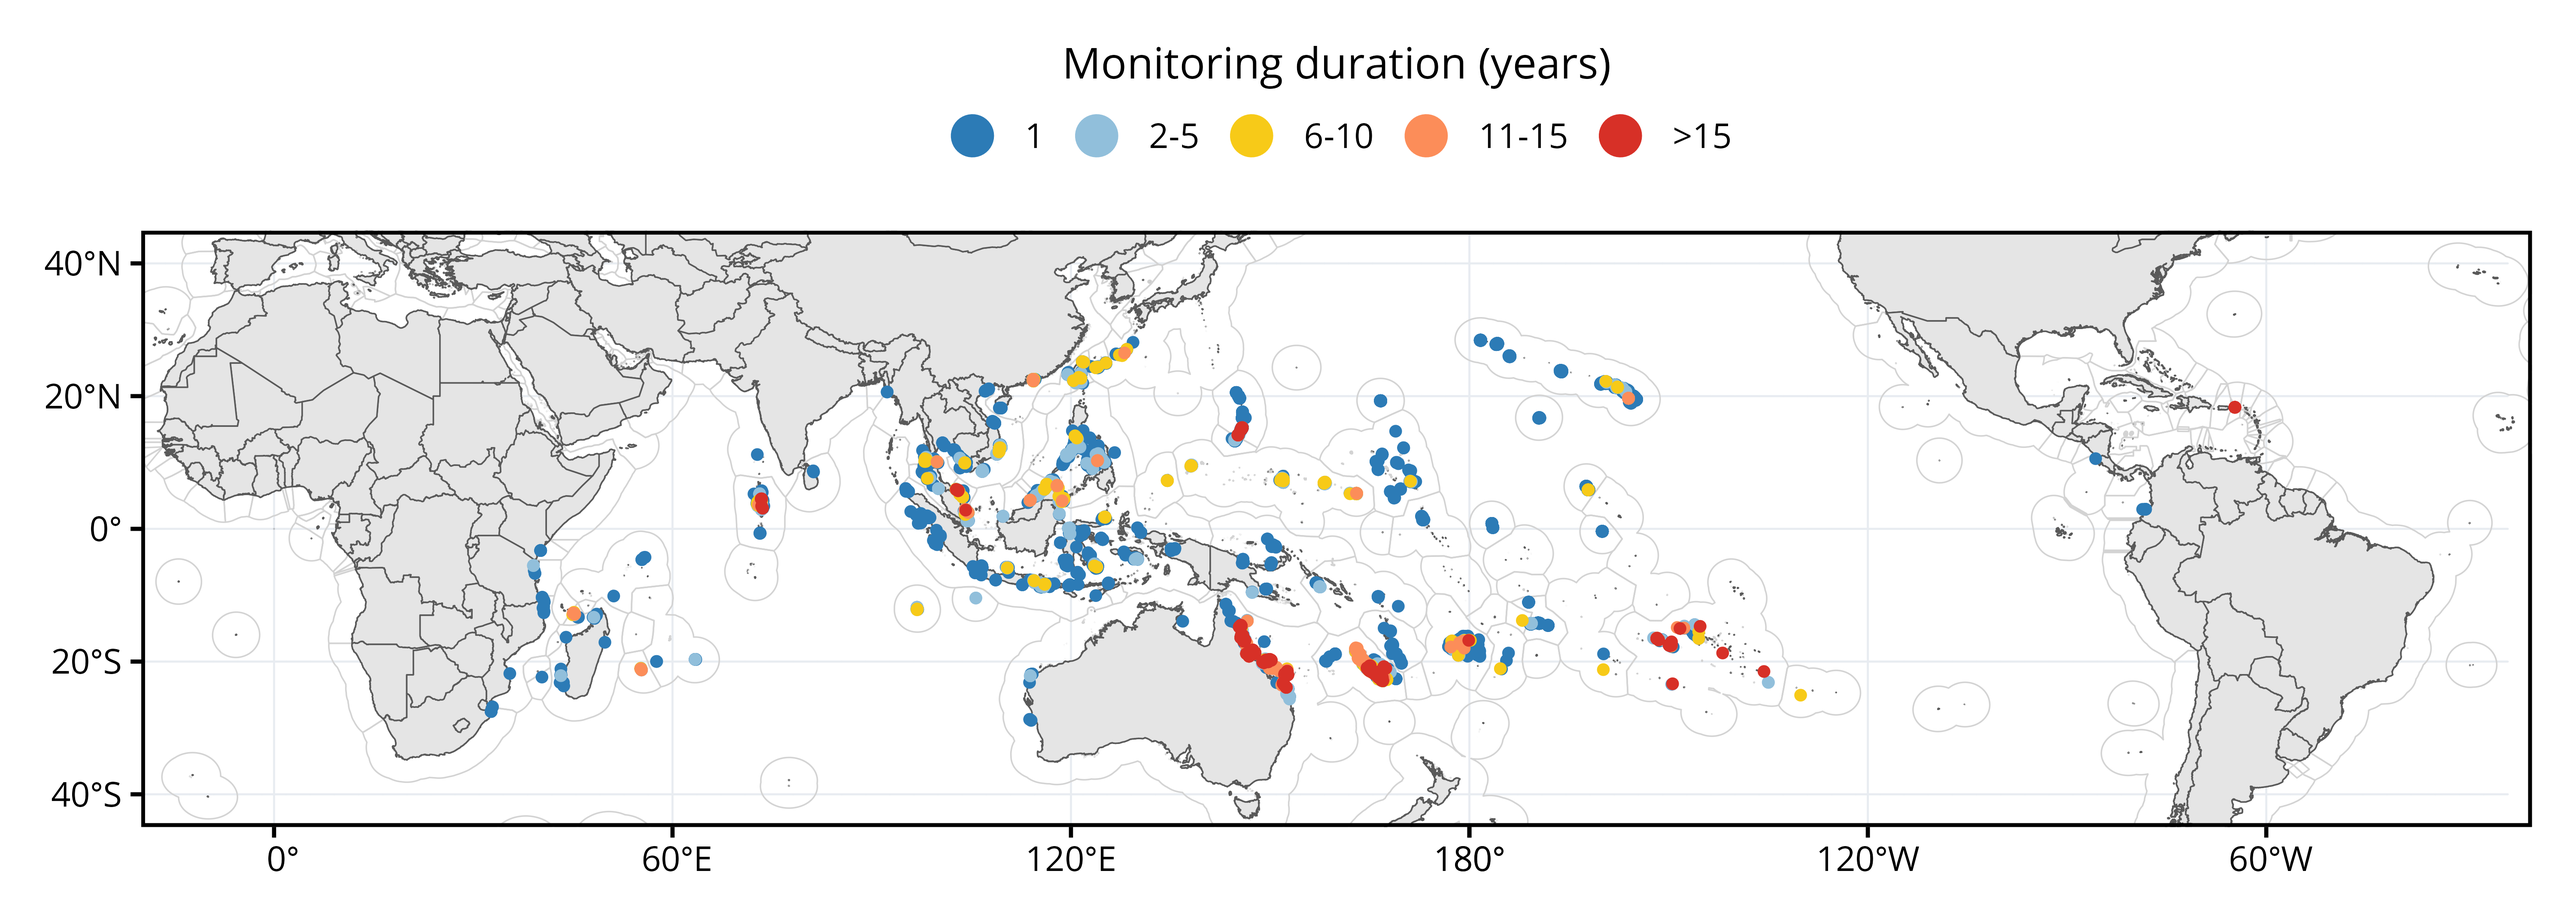
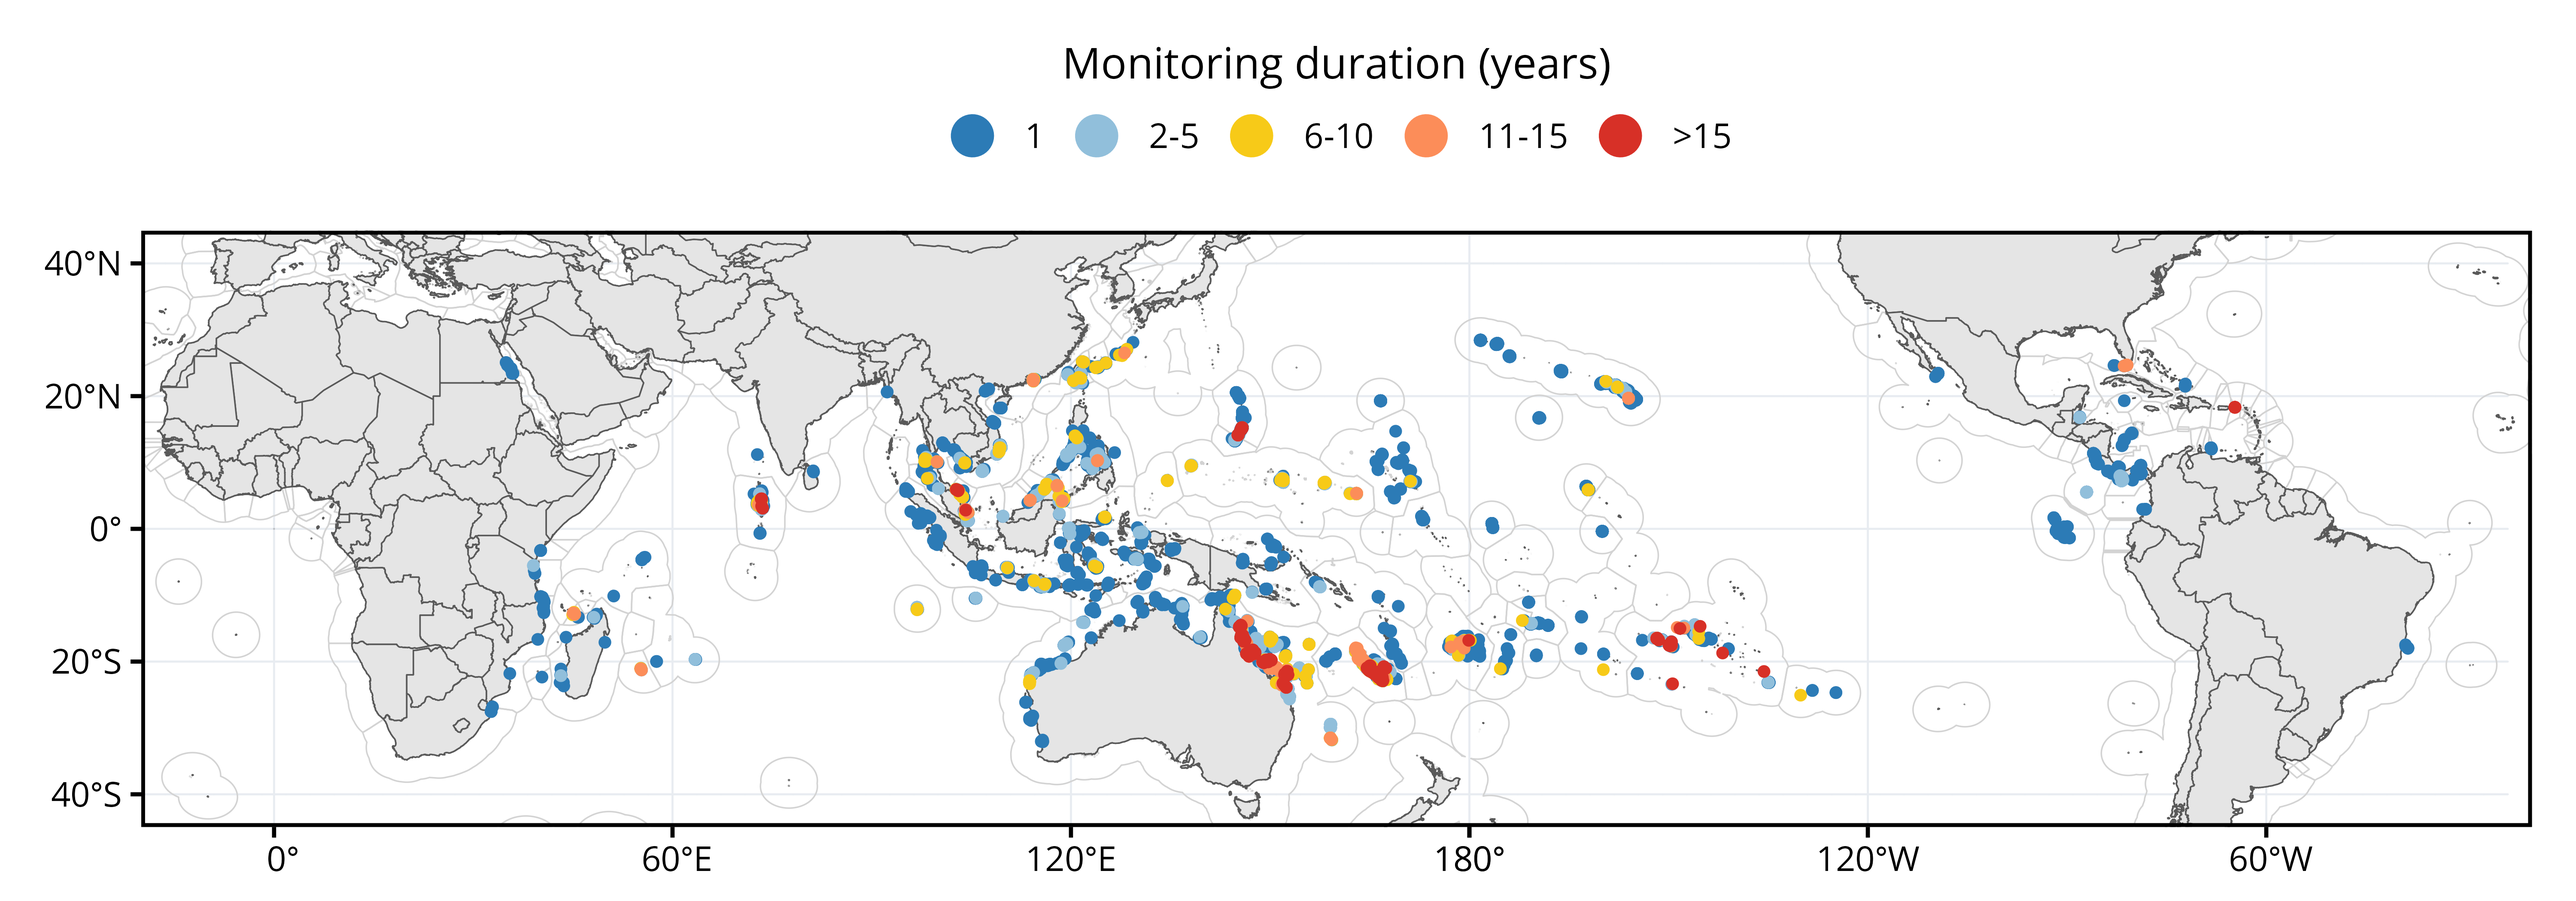
standardize dataset 0038

diff --git a/README.md b/README.md
@@ -249,7 +249,7 @@ considered. The column names (except *aggregator*) correspond to
 |   0025    | [2011_Southern Bua](https://dashboard.datamermaid.org/?project=2011_Southern%20Bua)                                                                     | open (summary) | Me.  | 08/09/2021 |     JW     |
 |   0026    | [2012_Western Bua](https://dashboard.datamermaid.org/?project=2012_Western%20Bua)                                                                       | open (summary) | Me.  | 10/09/2021 |     JW     |
 |   0027    | [2009-2011_Kubulau](https://dashboard.datamermaid.org/?project=2009-2011_Kubulau)                                                                       | open (summary) | Me.  | 08/09/2021 |     JW     |
-|   0028    | [C<sub>2</sub>O Pacific](https://c2o.net.au/our-work-in-the-pacific/)                                                                                   | open (summary) | Rc.  |            |     JW     |
+|   0028    | [C<sub>2</sub>O Pacific](https://c2o.net.au/our-work-in-the-pacific/)                                                                                   | upon request   | Rc.  |            |     JW     |
 |   0029    | [2022_BAF and WISH](https://dashboard.datamermaid.org/?project=2022_BAF%20and%20WISH%20coral%20reef%20surveys%20in%20Tailevu_Ovalau)                    | open (summary) | Me.  | 06/06/2022 |     JW     |
 |   0030    | [PNG BAF 2019](https://dashboard.datamermaid.org/?project=PNG%20BAF%202019)                                                                             | open (summary) | Me.  | 31/10/2019 |     JW     |
 |   0031    | [2017_Northern Lau](https://dashboard.datamermaid.org/?project=2017_Northern%20Lau)                                                                     | open (summary) | Me.  | 08/02/2021 |     JW     |
@@ -259,12 +259,13 @@ considered. The column names (except *aggregator*) correspond to
 |   0035    | [Lau Seascape Surveys](https://dashboard.datamermaid.org/?project=Lau%20Seascape%20Surveys%20March%202022)                                              | open (summary) | Me.  | 18/04/2022 |     JW     |
 |   0036    | SI_Munda                                                                                                                                                | open (summary) | Rc.  |            |     JW     |
 |   0037    | [Khen et al, 2022](https://link.springer.com/article/10.1007/s00338-022-02271-6)                                                                        | upon request   | Sh.  |            |     JW     |
+|   0038    | [Reef Life Survey](https://doi.org/10.1016/j.biocon.2020.108855)                                                                                        | upon request   | Sh.  | 13/09/2023 |     JW     |
 
 ## 6. Description of the synthetic dataset
 
-On the 2023-08-21, the `gcrmndb_benthos` synthetic dataset contains a
-total of **822,756 observations** (*i.e* rows) representing **9,439
-sites** and **21,883 surveys**.
+On the 2023-09-15, the `gcrmndb_benthos` synthetic dataset contains a
+total of **858,670 observations** (*i.e* rows) representing **10,820
+sites** and **23,810 surveys**.
 
 ![](figs/map_sites.png)
 
@@ -283,13 +284,15 @@ GCRMN regions.
 
 | GCRMN region | Sites (n) | Surveys (n) | Datasets (n) | First year | Last year |
 |-------------:|----------:|------------:|-------------:|:----------:|:---------:|
-|    Australia |       546 |        4175 |            2 |    1995    |   2019    |
-|    Caribbean |         8 |         236 |            2 |    1987    |   2021    |
-|          EAS |      2378 |        5232 |            2 |    1997    |   2022    |
-|          ETP |         5 |           5 |            1 |    1998    |   2004    |
-|      Pacific |      6206 |       11677 |           33 |    1987    |   2023    |
-|   South Asia |       151 |         217 |            1 |    1997    |   2022    |
-|          WIO |       145 |         341 |            1 |    1997    |   2019    |
+|    Australia |      1237 |        5314 |            3 |    1995    |   2023    |
+|       Brazil |        10 |          11 |            1 |    2012    |   2012    |
+|    Caribbean |        97 |         347 |            3 |    1987    |   2022    |
+|          EAS |      2510 |        5386 |            3 |    1997    |   2022    |
+|          ETP |       239 |         283 |            2 |    1998    |   2018    |
+|       PERSGA |        12 |          12 |            1 |    2011    |   2011    |
+|      Pacific |      6385 |       11865 |           34 |    1987    |   2023    |
+|   South Asia |       163 |         229 |            2 |    1997    |   2022    |
+|          WIO |       167 |         363 |            2 |    1997    |   2019    |
 
 **Table 7.** Summary of the content of the `gcrmndb_benthos` synthetic
 dataset per country and territory. The total number of datasets
@@ -299,57 +302,70 @@ territories.
 
 |               Country | Territory                    | Sites (n) | Surveys (n) | Datasets (n) | First year | Last year |
 |----------------------:|:-----------------------------|----------:|------------:|-------------:|:----------:|:---------:|
-|             Australia | Australia                    |       524 |        4113 |            2 |    1995    |   2019    |
-|             Australia | Christmas Island             |         2 |          13 |            1 |    2003    |   2007    |
+|             Australia | Australia                    |      1208 |        5248 |            3 |    1995    |   2023    |
+|             Australia | Christmas Island             |        16 |          30 |            2 |    2003    |   2010    |
 |             Australia | Cocos Islands                |        20 |          49 |            1 |    1997    |   2008    |
 |            Bangladesh | Bangladesh                   |         2 |           2 |            1 |    2005    |   2006    |
+|                Belize | Belize                       |        12 |          22 |            1 |    2015    |   2018    |
+|                Brazil | Brazil                       |        10 |          11 |            1 |    2012    |   2012    |
 |                Brunei | Brunei                       |        38 |          45 |            1 |    1997    |   2016    |
-|              Cambodia | Cambodia                     |        91 |          98 |            1 |    1998    |   2013    |
+|              Cambodia | Cambodia                     |        96 |         103 |            2 |    1998    |   2013    |
 |                 China | China                        |       100 |         366 |            1 |    1997    |   2012    |
-|              Colombia | Colombia                     |         4 |           4 |            1 |    1998    |   1999    |
-|            Costa Rica | Costa Rica                   |         1 |           1 |            1 |    2004    |   2004    |
-|            East Timor | East Timor                   |        10 |          12 |            1 |    2004    |   2017    |
+|              Colombia | Colombia                     |        20 |          20 |            2 |    1998    |   2011    |
+|              Colombia | Serrana Bank                 |         6 |           6 |            1 |    2016    |   2016    |
+|            Costa Rica | Costa Rica                   |        51 |          64 |            2 |    2004    |   2011    |
+|            East Timor | East Timor                   |        11 |          13 |            2 |    2004    |   2017    |
+|               Ecuador | Galapagos                    |        62 |          62 |            1 |    2008    |   2012    |
+|                 Egypt | Egypt                        |        12 |          12 |            1 |    2011    |   2011    |
 |                  Fiji | Fiji                         |       584 |         921 |           11 |    1997    |   2022    |
 |                France | Europa Island                |         1 |           1 |            1 |    2002    |   2002    |
-|                France | French Polynesia             |       150 |        2000 |            6 |    1987    |   2022    |
+|                France | French Polynesia             |       223 |        2075 |            7 |    1987    |   2022    |
 |                France | Mayotte                      |        20 |          87 |            1 |    2003    |   2017    |
 |                France | New Caledonia                |       721 |        3056 |            6 |    1997    |   2023    |
 |                France | Réunion                      |        32 |         133 |            1 |    2003    |   2016    |
 |                 India | India                        |         1 |           1 |            1 |    1998    |   1998    |
-|             Indonesia | Indonesia                    |       547 |         907 |            1 |    1997    |   2022    |
-|                 Japan | Japan                        |        44 |         102 |            1 |    1997    |   2015    |
+|             Indonesia | Indonesia                    |       665 |        1047 |            2 |    1997    |   2022    |
+|                 Japan | Japan                        |        52 |         110 |            2 |    1997    |   2015    |
 |                 Kenya | Kenya                        |         6 |           6 |            1 |    2003    |   2004    |
 |              Kiribati | Gilbert Islands              |        18 |          18 |            2 |    2011    |   2018    |
 |            Madagascar | Madagascar                   |        42 |          54 |            1 |    2001    |   2019    |
 |              Malaysia | Malaysia                     |       621 |        2174 |            2 |    1997    |   2021    |
-|              Maldives | Maldives                     |       145 |         211 |            1 |    1997    |   2022    |
-|      Marshall Islands | Marshall Islands             |        71 |          85 |            2 |    2002    |   2020    |
+|              Maldives | Maldives                     |       157 |         223 |            2 |    1997    |   2022    |
+|      Marshall Islands | Marshall Islands             |        84 |          98 |            3 |    2002    |   2020    |
+|                Mexico | Mexico                       |         9 |          10 |            1 |    2018    |   2018    |
 |            Micronesia | Micronesia                   |       168 |         385 |            2 |    2000    |   2020    |
-|            Mozambique | Mozambique                   |        13 |          14 |            1 |    1997    |   2006    |
+|            Mozambique | Mozambique                   |        14 |          15 |            2 |    1997    |   2012    |
 |               Myanmar | Myanmar                      |        22 |          29 |            1 |    2001    |   2013    |
-|           New Zealand | Cook Islands                 |         2 |           7 |            2 |    2005    |   2019    |
+|           Netherlands | Bonaire                      |        14 |          14 |            1 |    2012    |   2012    |
+|           New Zealand | Cook Islands                 |        14 |          19 |            3 |    2005    |   2019    |
+|           New Zealand | Niue                         |         7 |           7 |            1 |    2011    |   2011    |
+|             Nicaragua | Nicaragua                    |        23 |          23 |            1 |    2011    |   2015    |
 |                 Palau | Palau                        |         6 |          16 |            1 |    1997    |   2006    |
-|      Papua New Guinea | Papua New Guinea             |        74 |          90 |            2 |    1998    |   2019    |
+|                Panama | Panama                       |       109 |         140 |            1 |    2007    |   2015    |
+|      Papua New Guinea | Papua New Guinea             |        82 |          98 |            3 |    1998    |   2019    |
 |           Philippines | Philippines                  |       472 |         703 |            1 |    1997    |   2020    |
 | Republic of Mauritius | Republic of Mauritius        |        10 |          12 |            1 |    1999    |   2003    |
-|                 Samoa | Samoa                        |         1 |           3 |            1 |    2013    |   2019    |
-|            Seychelles | Seychelles                   |         7 |           7 |            1 |    1997    |   2001    |
-|       Solomon Islands | Solomon Islands              |        73 |         171 |            3 |    2005    |   2021    |
+|                 Samoa | Samoa                        |         2 |           4 |            2 |    2012    |   2019    |
+|            Seychelles | Seychelles                   |        19 |          19 |            2 |    1997    |   2012    |
+|       Solomon Islands | Solomon Islands              |        75 |         173 |            4 |    2005    |   2021    |
 |          South Africa | South Africa                 |         5 |           6 |            1 |    2001    |   2005    |
 |             Sri Lanka | Sri Lanka                    |         3 |           3 |            1 |    2003    |   2003    |
 |                Taiwan | Taiwan                       |       103 |         195 |            1 |    1997    |   2020    |
-|              Tanzania | Tanzania                     |         9 |          21 |            1 |    1997    |   2008    |
+|              Tanzania | Tanzania                     |        18 |          30 |            2 |    1997    |   2012    |
 |              Thailand | Thailand                     |       148 |         245 |            1 |    1998    |   2022    |
-|                 Tonga | Tonga                        |         4 |           9 |            2 |    2002    |   2019    |
-|        United Kingdom | Pitcairn                     |         1 |           5 |            1 |    2009    |   2018    |
-|         United States | American Samoa               |       826 |         886 |            3 |    1997    |   2019    |
+|                 Tonga | Tonga                        |        29 |          34 |            3 |    2002    |   2019    |
+|        United Kingdom | Cayman Islands               |         1 |           1 |            1 |    2011    |   2011    |
+|        United Kingdom | Pitcairn                     |         6 |          11 |            2 |    2009    |   2018    |
+|        United Kingdom | Turks and Caicos Islands     |         4 |           4 |            1 |    2015    |   2015    |
+|         United States | American Samoa               |       843 |         903 |            4 |    1997    |   2019    |
 |         United States | Guam                         |       301 |         353 |            4 |    1997    |   2021    |
-|         United States | Hawaii                       |      1725 |        1915 |            3 |    1997    |   2021    |
+|         United States | Hawaii                       |      1734 |        1924 |            4 |    1997    |   2021    |
 |         United States | Howland and Baker islands    |       150 |         150 |            1 |    2015    |   2017    |
 |         United States | Jarvis Island                |       222 |         222 |            1 |    2015    |   2017    |
 |         United States | Johnston Atoll               |        46 |          46 |            1 |    2015    |   2015    |
 |         United States | Northern Mariana Islands     |       679 |         840 |            3 |    1999    |   2020    |
 |         United States | Palmyra Atoll                |       194 |         294 |            2 |    2009    |   2019    |
+|         United States | United States                |        17 |          28 |            1 |    2010    |   2022    |
 |         United States | United States Virgin Islands |         8 |         236 |            2 |    1987    |   2021    |
 |         United States | Wake Island                  |       146 |         146 |            1 |    2014    |   2017    |
 |               Vanuatu | Vanuatu                      |        44 |          59 |            2 |    2004    |   2019    |
@@ -427,31 +443,31 @@ The following organizations have funded the realization of the
     [1] stats     graphics  grDevices utils     datasets  methods   base     
 
     other attached packages:
-     [1] mermaidr_0.6.4    kableExtra_1.3.4  plotly_4.10.2     rmarkdown_2.23   
-     [5] taxize_0.9.100    leaflet_2.1.2     DT_0.28           formattable_0.2.1
+     [1] mermaidr_0.6.4    kableExtra_1.3.4  plotly_4.10.2     rmarkdown_2.24   
+     [5] taxize_0.9.100    leaflet_2.2.0     DT_0.29           formattable_0.2.1
      [9] knitr_1.43        sf_1.0-14         lubridate_1.9.2   forcats_1.0.0    
-    [13] stringr_1.5.0     dplyr_1.1.2       purrr_1.0.1       readr_2.1.4      
-    [17] tidyr_1.3.0       tibble_3.2.1      ggplot2_3.4.2     tidyverse_2.0.0  
+    [13] stringr_1.5.0     dplyr_1.1.3       purrr_1.0.2       readr_2.1.4      
+    [17] tidyr_1.3.0       tibble_3.2.1      ggplot2_3.4.3     tidyverse_2.0.0  
     [21] extrafont_0.19   
 
     loaded via a namespace (and not attached):
      [1] tidyselect_1.2.0   viridisLite_0.4.2  farver_2.1.1       fastmap_1.1.1     
-     [5] lazyeval_0.2.2     promises_1.2.0.1   digest_0.6.33      timechange_0.2.0  
+     [5] lazyeval_0.2.2     promises_1.2.1     digest_0.6.33      timechange_0.2.0  
      [9] lifecycle_1.0.3    magrittr_2.0.3     compiler_4.3.1     rlang_1.1.1       
     [13] tools_4.3.1        utf8_1.2.3         yaml_2.3.7         data.table_1.14.8 
-    [17] conditionz_0.1.0   htmlwidgets_1.6.2  classInt_0.4-9     curl_5.0.1        
-    [21] xml2_1.3.5         KernSmooth_2.23-21 httpcode_0.3.0     withr_2.5.0       
+    [17] conditionz_0.1.0   htmlwidgets_1.6.2  classInt_0.4-10    curl_5.0.2        
+    [21] xml2_1.3.5         KernSmooth_2.23-22 httpcode_0.3.0     withr_2.5.0       
     [25] grid_4.3.1         fansi_1.0.4        e1071_1.7-13       colorspace_2.1-0  
     [29] extrafontdb_1.0    scales_1.2.1       iterators_1.0.14   crul_1.4.0        
     [33] cli_3.6.1          crayon_1.5.2       ragg_1.2.5         generics_0.1.3    
-    [37] rstudioapi_0.15.0  httr_1.4.6         tzdb_0.4.0         DBI_1.1.3         
+    [37] rstudioapi_0.15.0  httr_1.4.7         tzdb_0.4.0         DBI_1.1.3         
     [41] ape_5.7-1          proxy_0.4-27       rvest_1.0.3        parallel_4.3.1    
     [45] s2_1.1.4           vctrs_0.6.3        webshot_0.5.5      jsonlite_1.8.7    
     [49] hms_1.1.3          systemfonts_1.0.4  crosstalk_1.2.0    foreach_1.5.2     
-    [53] units_0.8-2        glue_1.6.2         codetools_0.2-19   stringi_1.7.12    
-    [57] gtable_0.3.3       later_1.3.1        munsell_0.5.0      pillar_1.9.0      
-    [61] htmltools_0.5.5    R6_2.5.1           wk_0.7.3           textshaping_0.3.6 
+    [53] units_0.8-3        glue_1.6.2         codetools_0.2-19   stringi_1.7.12    
+    [57] gtable_0.3.4       later_1.3.1        munsell_0.5.0      pillar_1.9.0      
+    [61] htmltools_0.5.6    R6_2.5.1           wk_0.8.0           textshaping_0.3.6 
     [65] bold_1.3.0         evaluate_0.21      lattice_0.21-8     httpuv_1.6.11     
-    [69] class_7.3-22       Rcpp_1.0.11        uuid_1.1-0         svglite_2.1.1     
-    [73] nlme_3.1-162       Rttf2pt1_1.3.12    xfun_0.39          zoo_1.8-12        
+    [69] class_7.3-22       Rcpp_1.0.11        uuid_1.1-1         svglite_2.1.1     
+    [73] nlme_3.1-163       Rttf2pt1_1.3.12    xfun_0.40          zoo_1.8-12        
     [77] pkgconfig_2.0.3   
